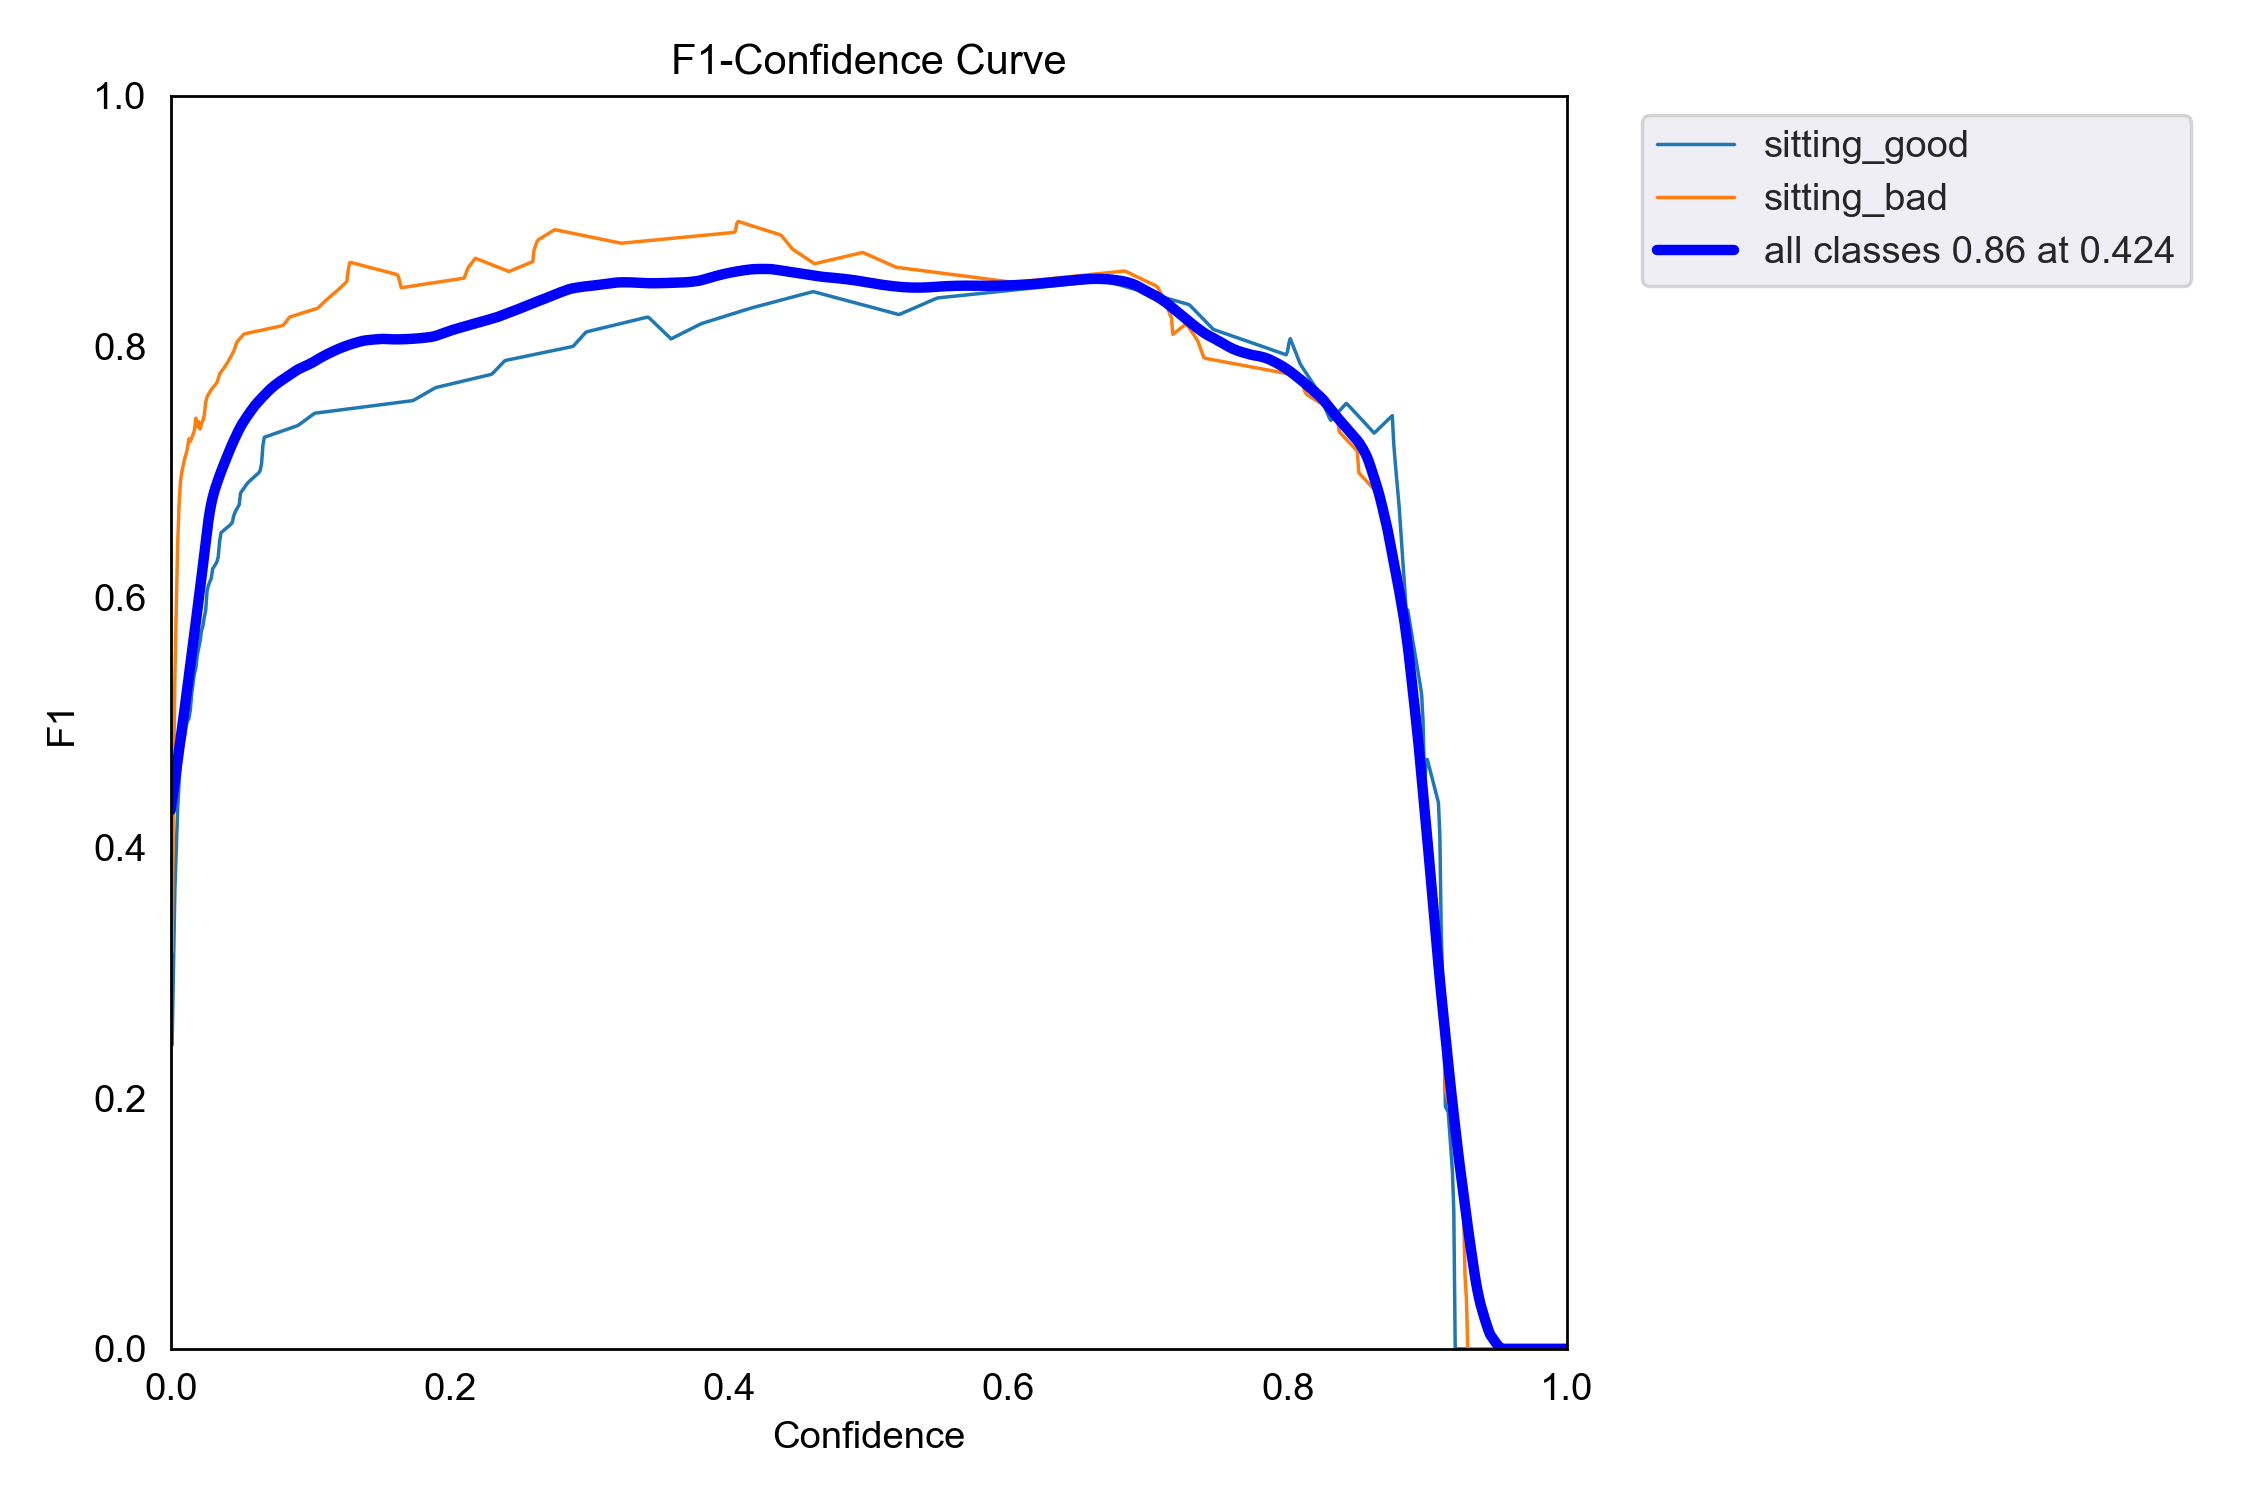
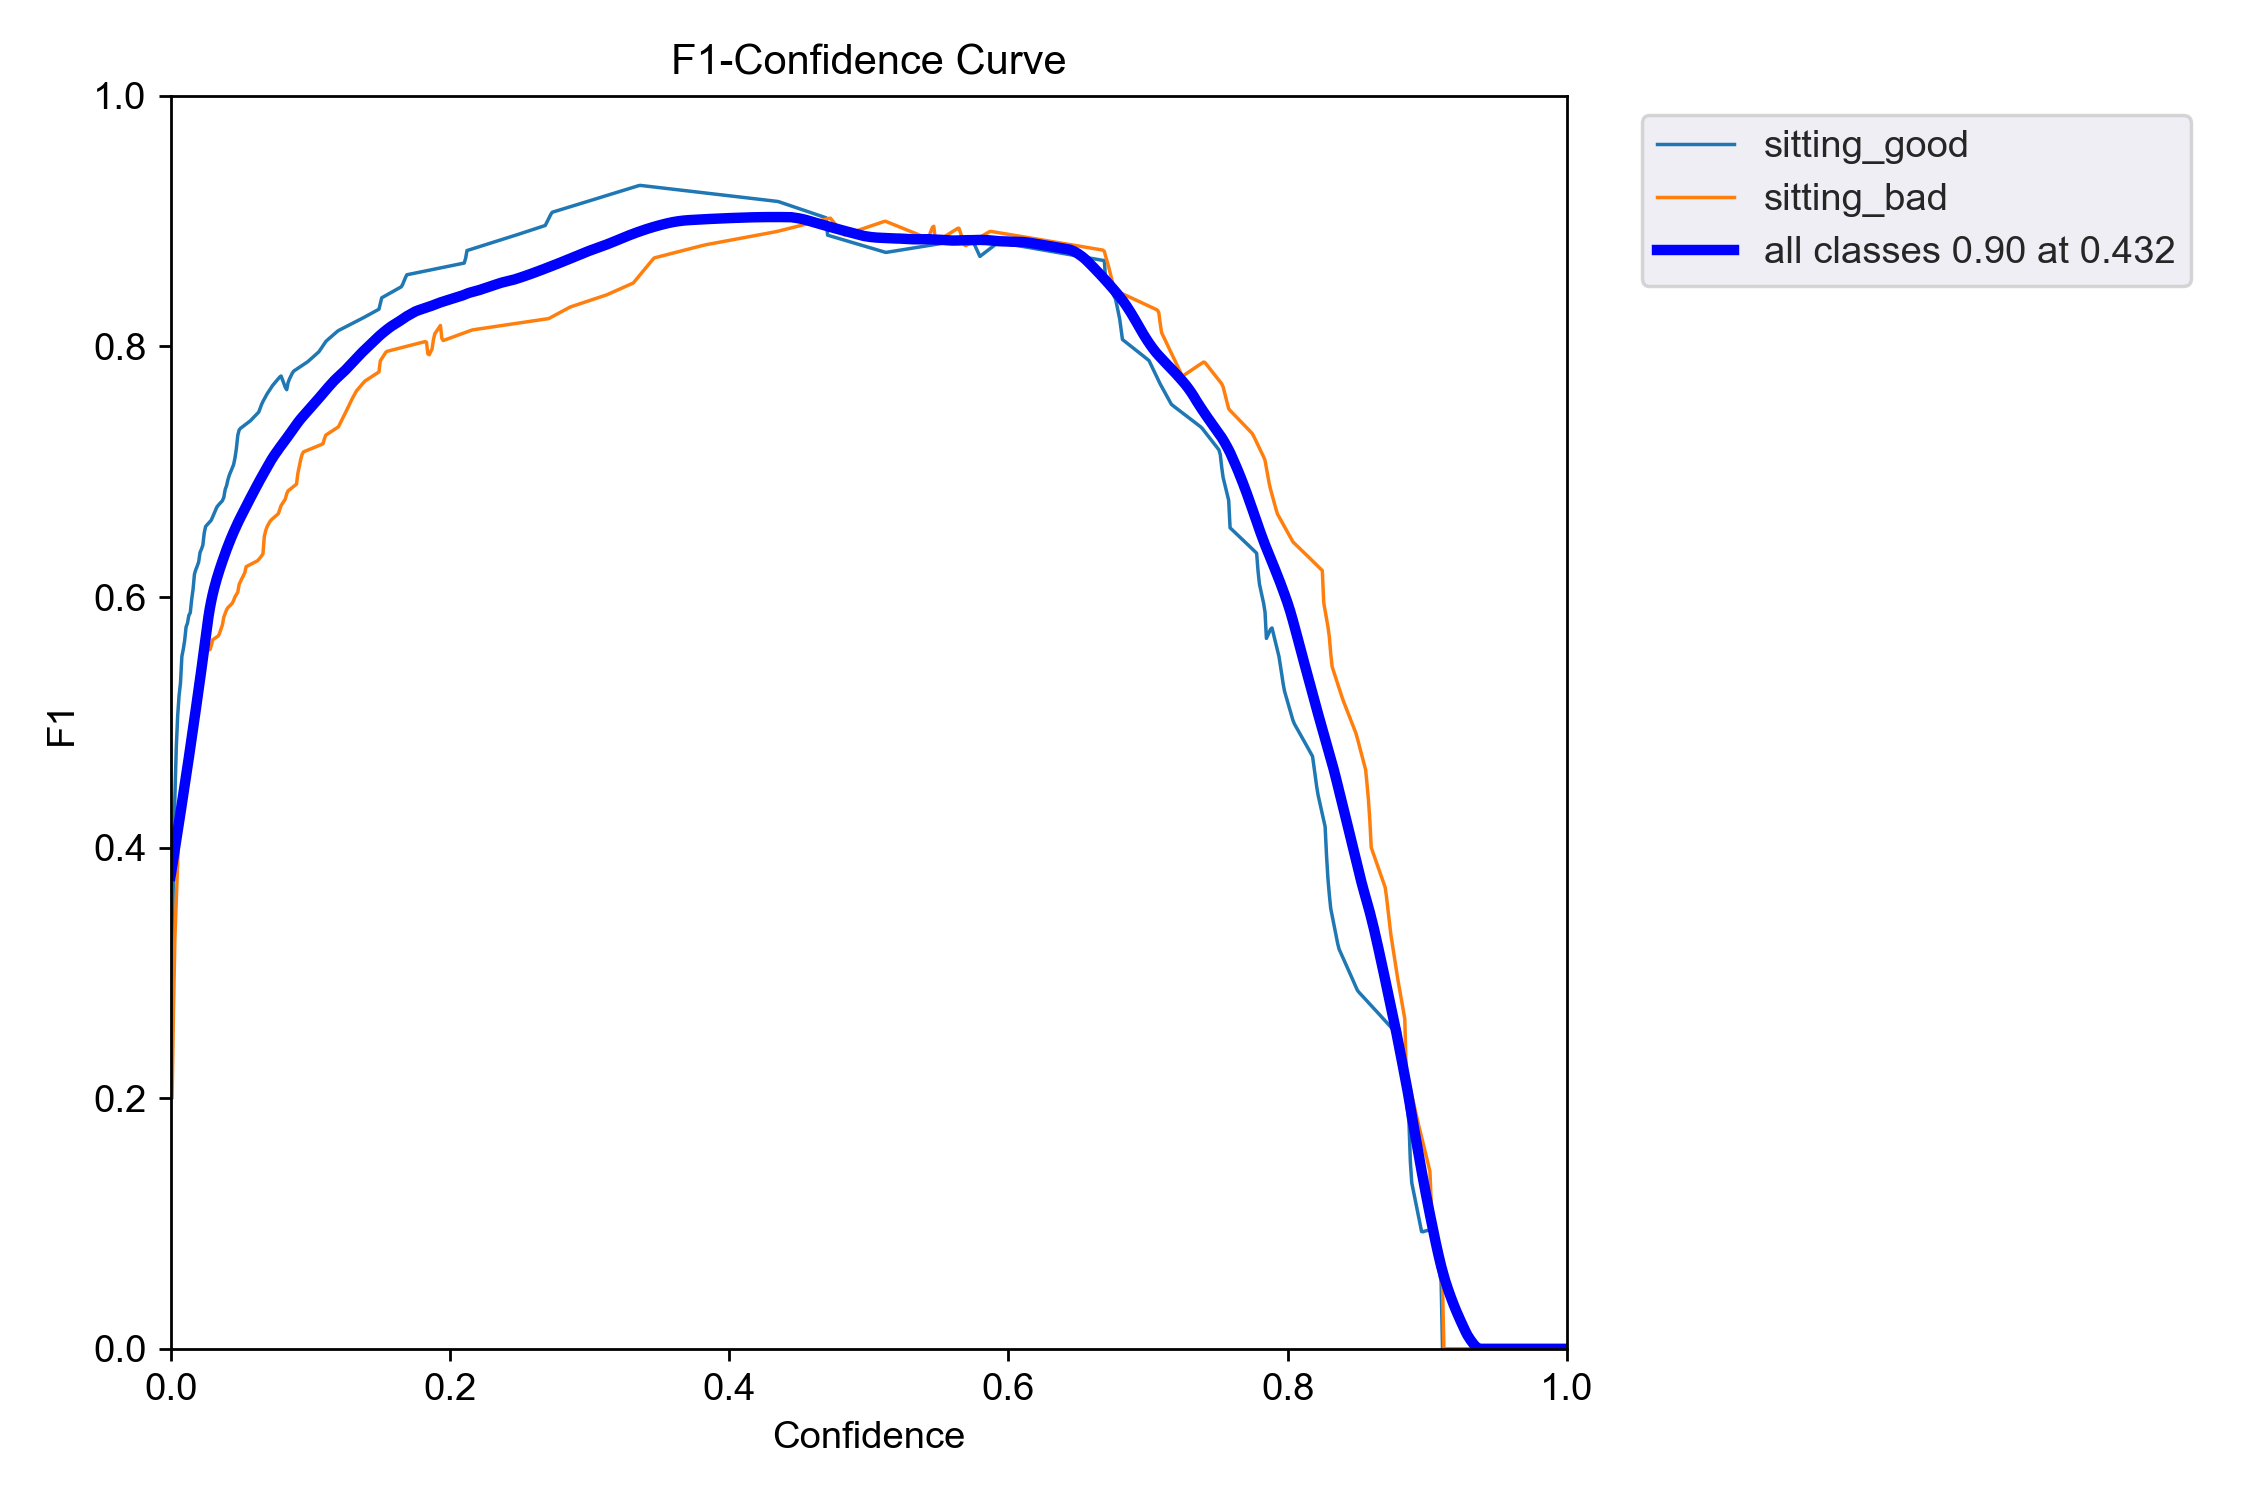
updated results

Changed region(s): [[0.0622, 0.1227, 0.6844, 0.92], [0.9333, 0.1533, 0.9644, 0.184], [0.8711, 0.1533, 0.9022, 0.184]]

diff --git a/README.md b/README.md
@@ -66,9 +66,9 @@ The architecture that is used for the model is the standard YOLOv5 architecture:
 The validation set contains 800 images (280 sitting_good, 520 sitting_bad). The results are as follows:
 |Class|Images|Instances|Precision|Recall|mAP50|mAP50-95|
 |--|--|--|--|--|--|--|
-|all| 800 | 800 | 0.828 | 0.91 | 0.903 | 0.756 |
-|sitting_good| 800 |  280| 0.72 | 0.964 | 0.851 |0.725  |
-|sitting_bad| 800 | 520 | 0.937 | 0.856 | 0.955 | 0.786 |
+|all| 800 | 800 | 0.87 | 0.939 | 0.931 | 0.734 |
+|sitting_good| 800 |  280| 0.884 | 0.954 | 0.908 |0.744  |
+|sitting_bad| 800 | 520 | 0.855 | 0.925 | 0.953 | 0.724 |
 
 Detailed graphs:
 
